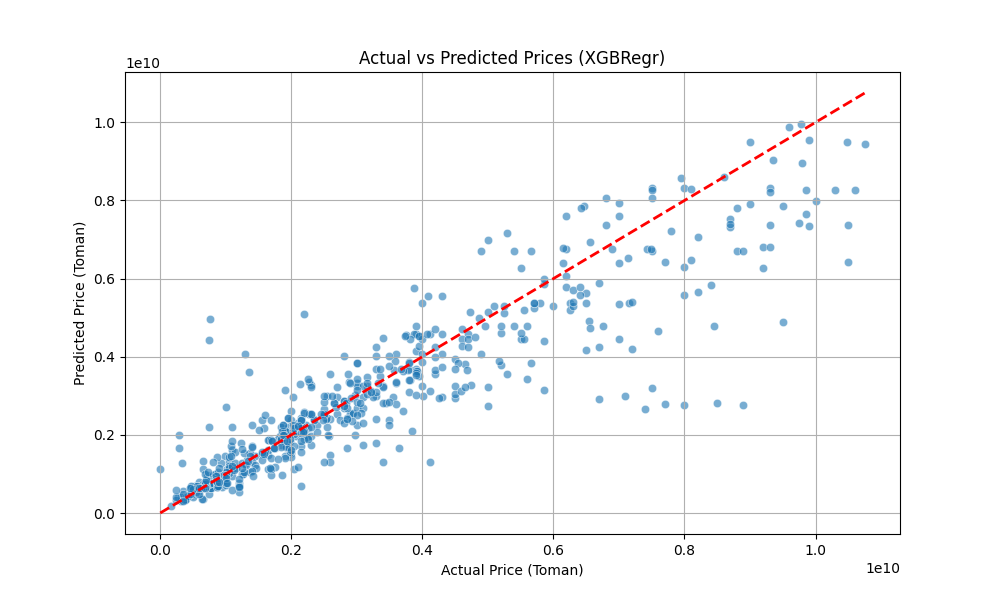
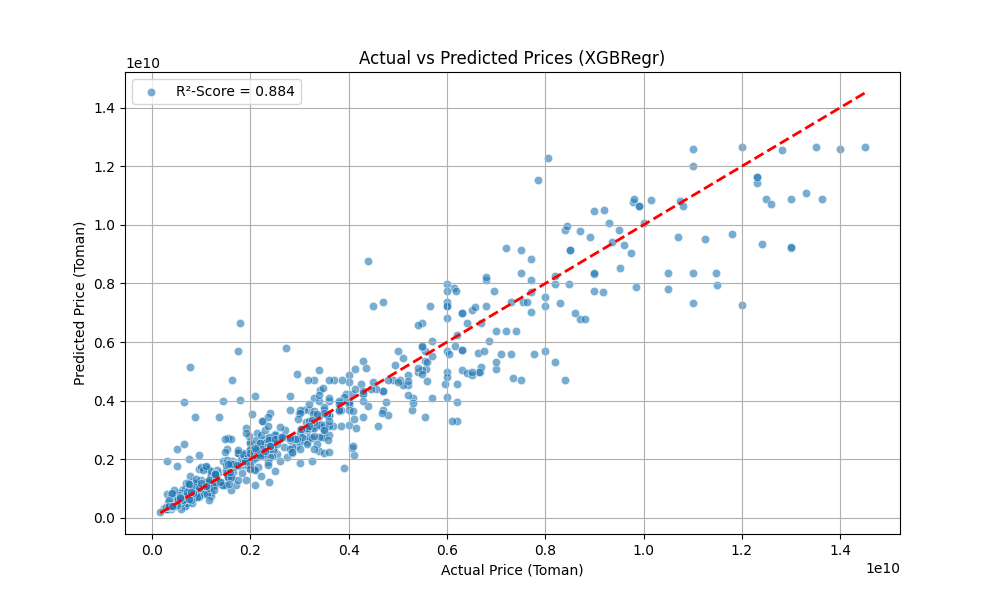
Refactor outlier removal function and update visualization saving logic

diff --git a/model/housegem(xgboost).py b/model/housegem(xgboost).py
@@ -21,6 +21,20 @@ def remove_outliers_iqr(df, column):
     df_filtered = df[(df[column] >= lower_bound) & (df[column] <= upper_bound)]
     return df_filtered
 
+
+#Note* : batavajoh be inke qeimat khone be shadidan motafavet ast, baraye hazf outlier ha dar soton gheymat az IQR ba estefade az ziad kardan 2.5 bejaye 1.5 estefade mikonim.
+def remove_outliers_iqr_price(df, column):
+    """
+    Removes outliers from a specified column in a DataFrame using the IQR method tunned*.
+    """
+    Q1 = df[column].quantile(0.25)
+    Q3 = df[column].quantile(0.75)
+    IQR = Q3 - Q1
+    lower_bound = Q1 - 1.5 * IQR
+    upper_bound = Q3 + 2.5 * IQR
+    print(f'{column} Lower bound: {lower_bound}, Upper bound: {upper_bound}')
+    df_filtered = df[(df[column] >= lower_bound) & (df[column] <= upper_bound)]
+    return df_filtered
 # load karardan data
 # hatamn address file ra qabl az ejra check konid
 try:
@@ -34,7 +48,7 @@ cdf = df_original[['Area', 'Room', 'Parking', 'Warehouse', 'Elevator', 'Address'
 
 #paksazi
 df_no_outliers_area = remove_outliers_iqr(cdf, 'Area')
-df_no_outliers = remove_outliers_iqr(df_no_outliers_area, 'Price')
+df_no_outliers = remove_outliers_iqr_price(df_no_outliers_area, 'Price')
 
 print(f"Tedad record after IQR: {len(df_no_outliers)}")
 
@@ -102,13 +116,12 @@ import matplotlib.pyplot as plt
 import seaborn as sns
 
 plt.figure(figsize=(10, 6))
-sns.scatterplot(x=y_test_original_scale, y=y_pred_original_scale, alpha=0.6)
-plt.plot([y_test_original_scale.min(), y_test_original_scale.max()], [y_test_original_scale.min(), y_test_original_scale.max()], 'r--', lw=2)
+sns.scatterplot(x=y_test_original_scale, y=y_pred_original_scale, alpha=0.6,label=f"R²-Score = {r2:.3f}")
+plt.plot([y_test_original_scale.min(), y_test_original_scale.max()], [y_test_original_scale.min(), y_test_original_scale.max()], 'r--', lw=2,label=f"R² = {r2:.3f}")
 plt.xlabel("Actual Price (Toman)")
 plt.ylabel("Predicted Price (Toman)")
 plt.title("Actual vs Predicted Prices (XGBRegr)")
 plt.grid(True)
-plt.savefig('actual_vs_predicted_xgboost.png')  # Save the plot as a PNG file
 plt.show()
 
 # upload kardan model va scaler va feature columns baraye estefade dar app.
